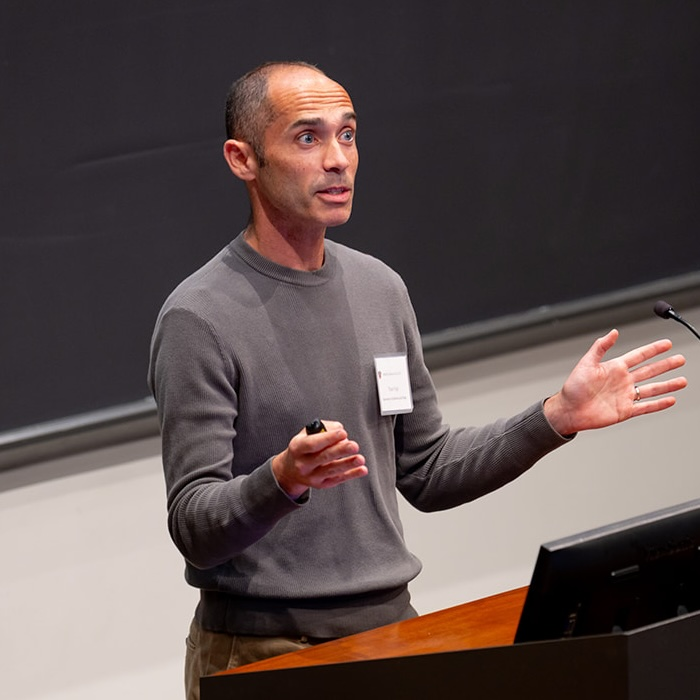
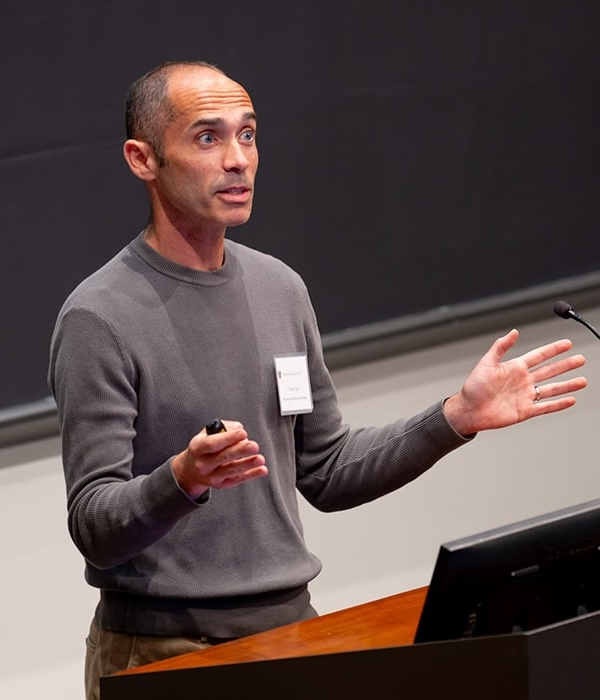
.

diff --git a/index.html b/index.html
@@ -19,7 +19,7 @@
 <div>
   <table border="0" cellspacing="0" cellpadding="0">
   <tr valign="top">
-      <td width="1%"><img src="website_photo.jpg" alt="Tom Vogl" width="200" height="200">&nbsp;</td>
+      <td width="1%"><img src="website_photo.jpg" alt="Tom Vogl" width="180" height="210">&nbsp;</td>
       <td width="80%">
       <p><strong>Associate Professor</strong>
       <br /><strong>Department of Economics</strong>
